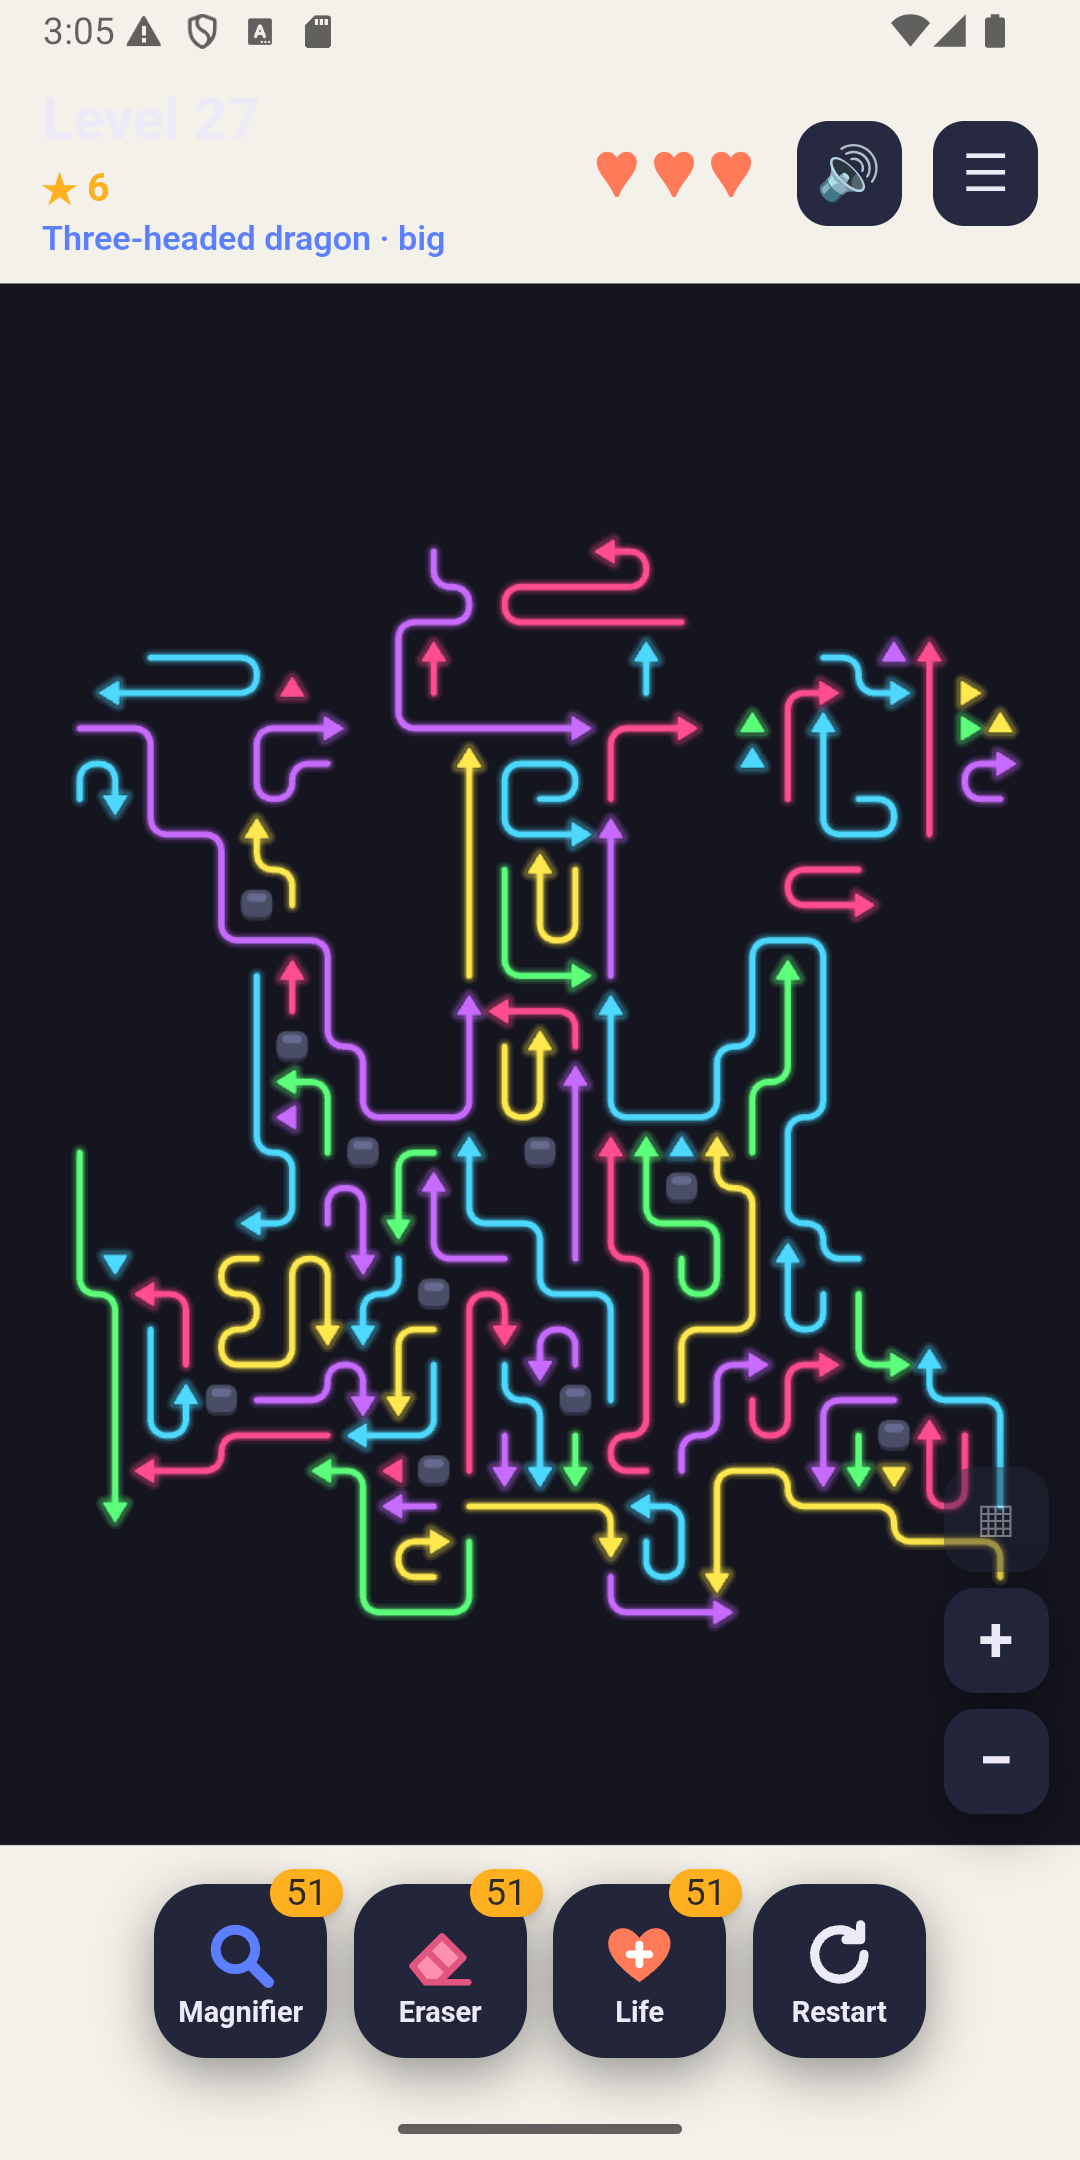
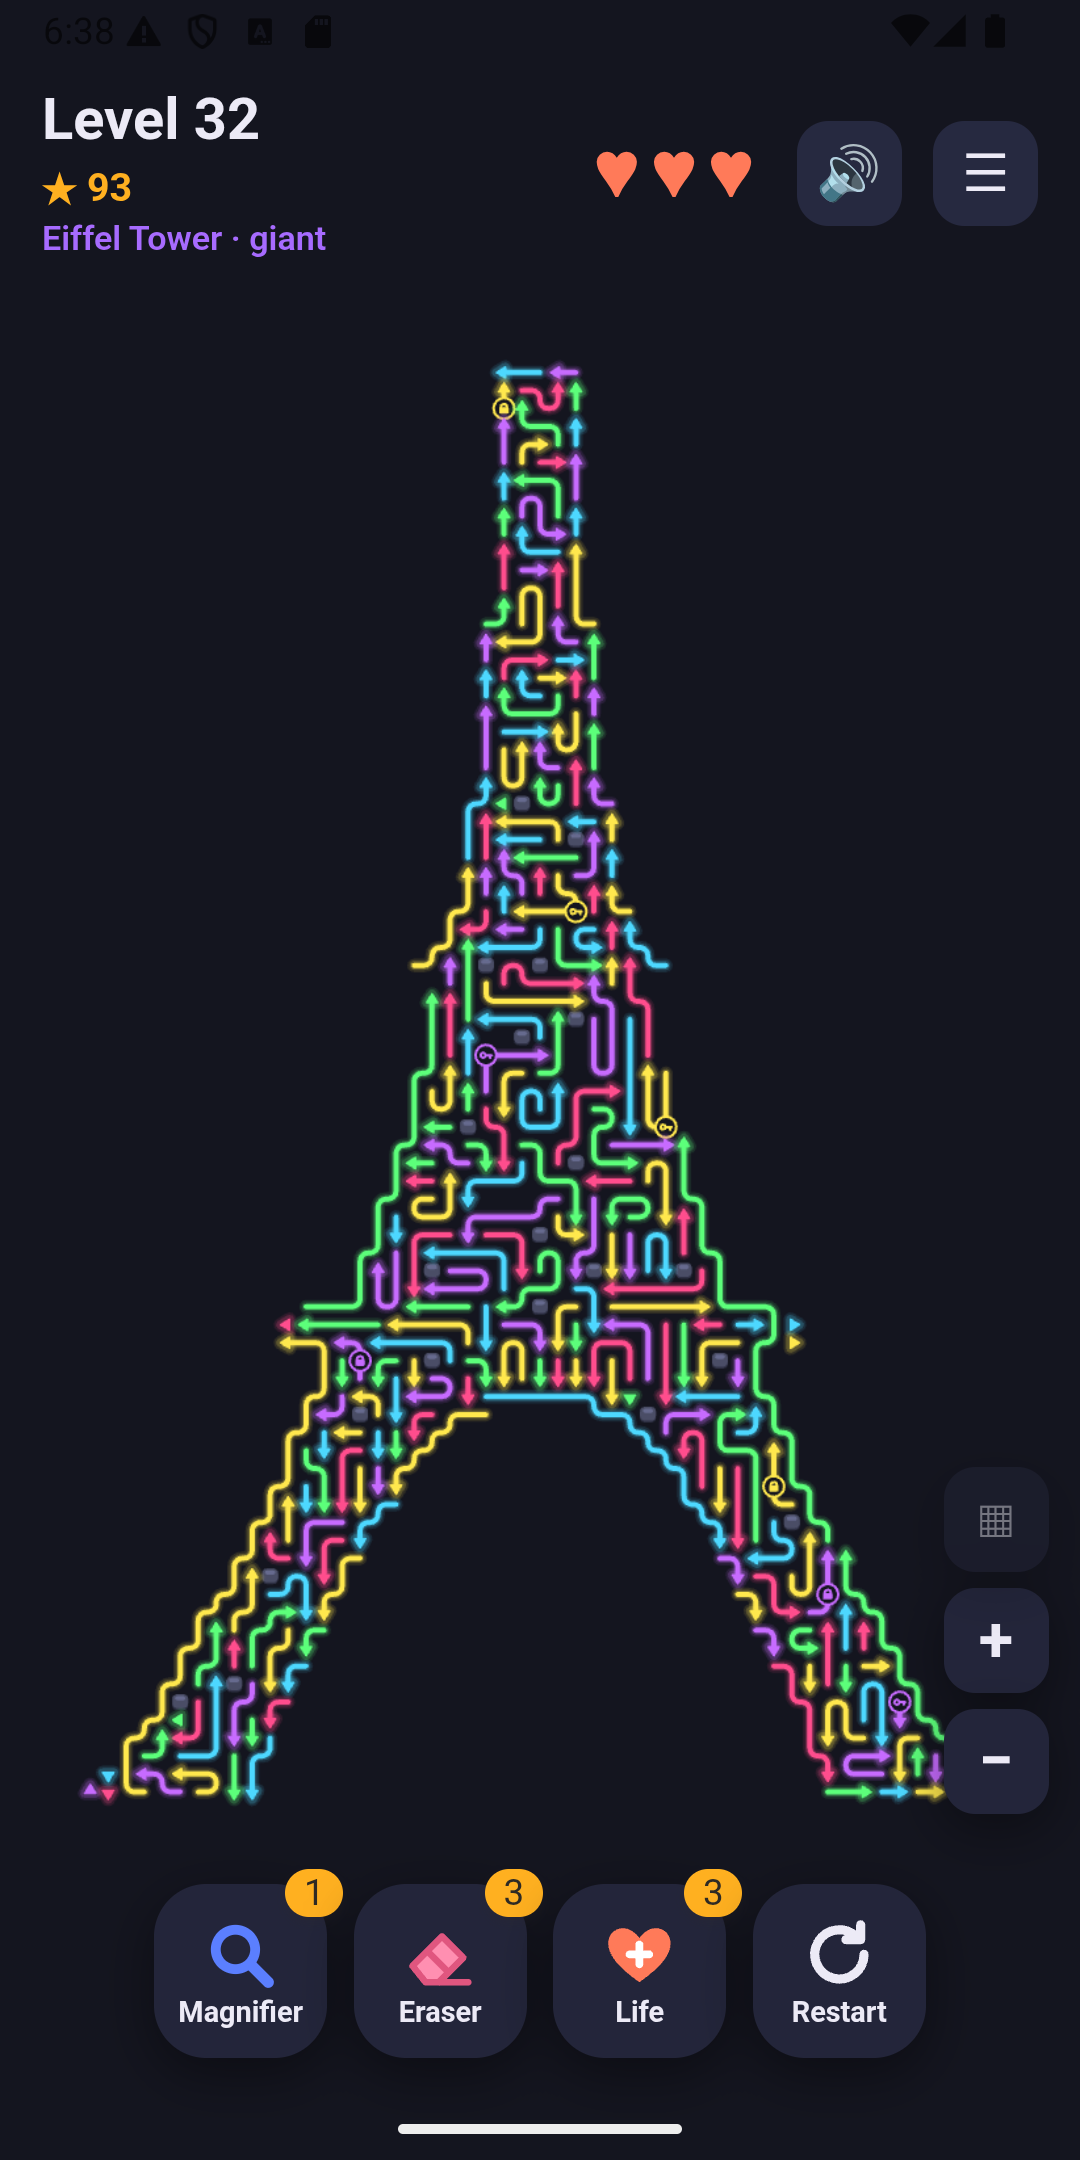
Play: возрастной рейтинг и безопасность данных заполнены, неон-скриншот переснят, версия 1.0.2 (код 3)

diff --git a/PLAN.md b/PLAN.md
@@ -4,7 +4,7 @@
 
 ## Сейчас
 - **Готово:** этапы 1–6 и бэклог 7–11. Звук: тап — свуш (выбран), победа — пока прежний перелив (подбор не сошёлся, варианты «галочка» в пульте 🎧).
-- **Следующее:** скриншоты для Play (store/screenshots: есть 1-menu, 2-level, 3-finale — переснять финал без всплывашки, 4-win; нужны неон, альбом, подарок; баннер 1024×500), заполнить страницу и анкеты в Play Console (тексты store/listing/*.md, ответы store/play-forms.md), пуш сайта (privacy.html), сборка 3; проверка покупки на телефоне.
+- **Следующее:** загрузить графику в Play Console (store/icon-512.png, store/feature-graphic.png, скриншоты store/screenshots — перетащить вручную), сборка 3 (1.0.2, код 3) — внутреннее тестирование, проверка покупки на эмуляторе тест-аккаунтом; перед открытым выпуском ADS.testing: false.
 - **Блокеры:** нет. Для 12.5+ нужны «ок» на зависимости и аккаунт Google Play ($25) у пользователя.
 
 ## Этапы
@@ -211,3 +211,4 @@
 - 2026-11-20 — кнопка «Меню» на экранах победы/поражения (плейтест 🟠: из оверлея нельзя было выйти) + вибрация не вызывается до первого настоящего касания (ошибки в консоли) — проверено: ур.1 → победа → «Меню» → меню «уровень 2», тесты 8/8.
 - 2026-11-20 — подсказка: остальные стрелки плавно приглушаются до 35%, подсказанная «кивает» в сторону вылета — на поле 6×6 рамку было не видно (плейтест) — проверено: ур.25 на 375×812, скриншот, консоль чистая, тесты 8/8.
 - 2026-11-20 — облачко при вылете: вместо веера из 6 точек — 3 мягких полупрозрачных круга (22%), расплываются и сносятся назад — плейтест: «бусины» выбивались из «спокойно, чисто» — проверено: свежая вкладка, ур.2 на 375×812, снимок сразу после тапа, консоль чистая (ошибок vibrate больше нет), тесты 8/8.
+- 2026-11-23 — Play Console: анкета возрастного рейтинга (PEGI 3 / ESRB Everyone / IARC 3+, покупки цифровых товаров) и «Безопасность данных» (AdMob: прибл. местоположение, ID устройства, действия в приложении, отчёты об ошибках и диагностика — сбор и передача, цели: аналитика, реклама, защита от мошенничества) отправлены; ответы в store/play-forms.md. Неон-скриншот переснят на сборке с исправлением отрисовки (полосы нет). Версия 1.0.2 (код 3). На эмуляторе AdMob пишет «Publisher misconfiguration» — приложение ещё не связано/не проверено в AdMob, это не ошибка кода.
